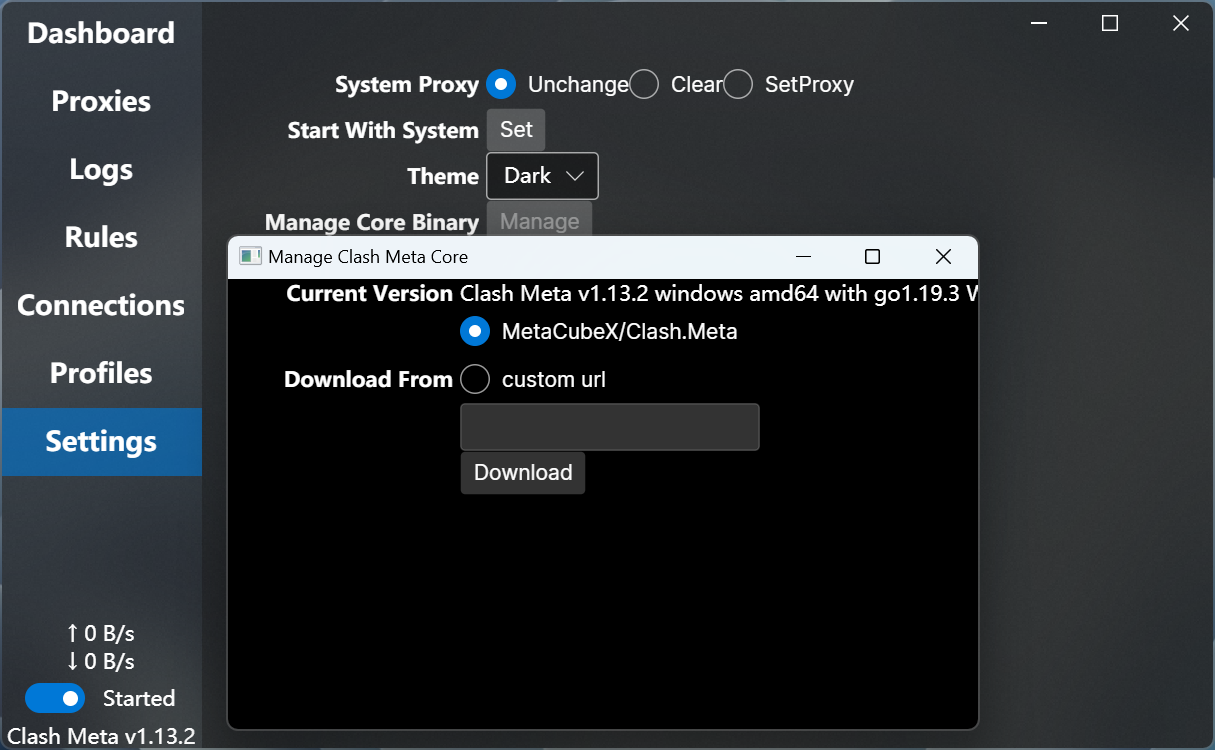
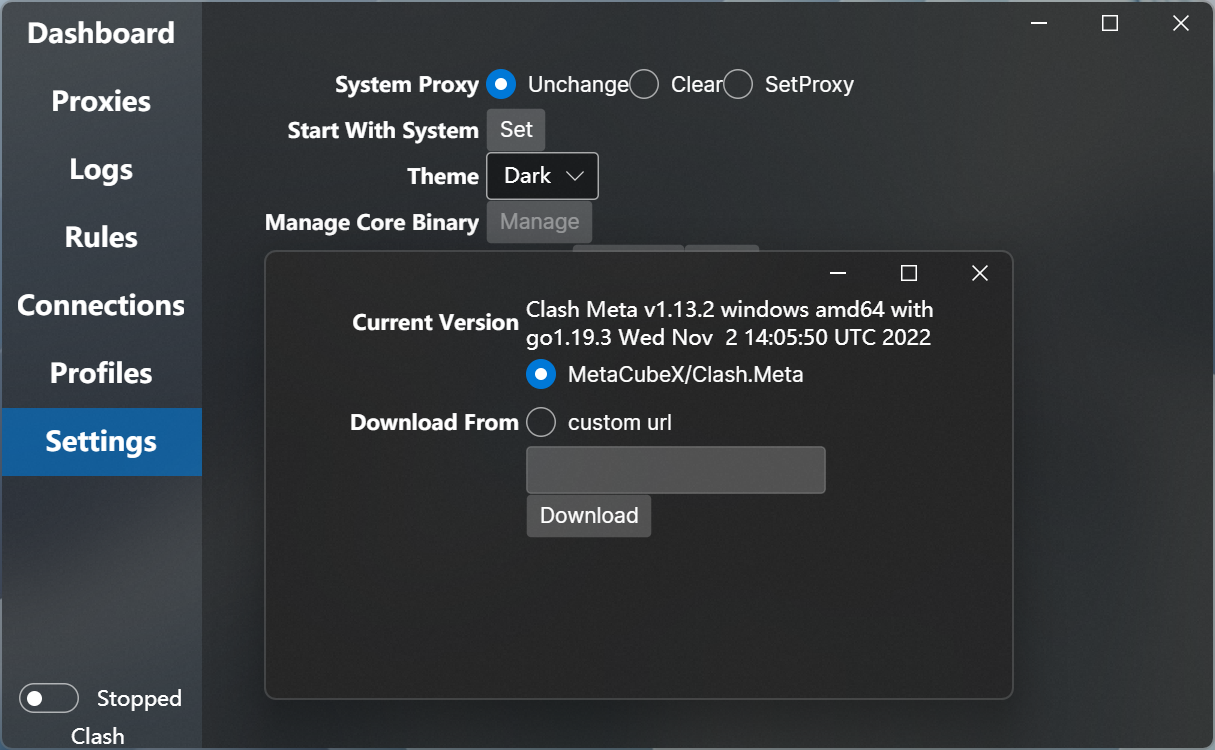
feat: Make ProfileEditWindow and ClashCoreManageWindow Acrylic

diff --git a/Clasharp/ViewModels/ProfileEditViewModel.cs b/Clasharp/ViewModels/ProfileEditViewModel.cs
@@ -5,11 +5,14 @@ using System.Linq;
 using System.Reactive;
 using System.Reactive.Linq;
 using System.Threading.Tasks;
+using Avalonia.Media;
+using Avalonia.Themes.Fluent;
 using Clasharp.Interfaces;
 using Clasharp.Models.Profiles;
 using Clasharp.Services;
 using Clasharp.Utils;
 using Clasharp.Common;
+using Clasharp.Models.Settings;
 using ReactiveUI;
 using ReactiveUI.Fody.Helpers;
 
@@ -61,12 +64,15 @@ public class ProfileEditViewModel : ViewModelBase, IProfileEditViewModel
     // ReSharper disable once UnassignedGetOnlyAutoProperty
     public bool IsLocalProfile { get; }
 
+    [ObservableAsProperty]
+    public Color TintColor { get; }
+
     public ReactiveCommand<Unit, Profile?> Save { get; }
     private Profile? _profileBase;
 
     private IProfilesService _profilesService;
 
-    public ProfileEditViewModel(Profile? profile, IProfilesService profilesService)
+    public ProfileEditViewModel(Profile? profile, IProfilesService profilesService, AppSettings appSettings)
     {
         _profileBase = profile;
         _profilesService = profilesService;
@@ -96,6 +102,10 @@ public class ProfileEditViewModel : ViewModelBase, IProfileEditViewModel
                 FromFile = filename;
             }
         });
+        appSettings.WhenAnyValue(d => d.ThemeMode)
+            .Select(d => d == FluentThemeMode.Dark ? Colors.Black : Colors.White)
+            .ToPropertyEx(this, d => d.TintColor);
+
     }
 
     private async Task<Profile?> SaveProfile()

diff --git a/Clasharp/ViewModels/ClashCoreManageViewModel.cs b/Clasharp/ViewModels/ClashCoreManageViewModel.cs
@@ -3,9 +3,12 @@ using System.IO;
 using System.Reactive;
 using System.Reactive.Linq;
 using System.Threading.Tasks;
+using Avalonia.Media;
+using Avalonia.Themes.Fluent;
 using Clasharp.Common;
 using Clasharp.Interfaces;
 using Clasharp.Models.ServiceMode;
+using Clasharp.Models.Settings;
 using Clasharp.Utils.PlatformOperations;
 using ReactiveUI;
 using ReactiveUI.Fody.Helpers;
@@ -20,7 +23,7 @@ public class ClashCoreManageViewModel : ViewModelBase, IClashCoreManageViewModel
     private readonly StopService _stopService = new();
     private readonly GetClashExePath _getClashExePath = new();
 
-    public ClashCoreManageViewModel()
+    public ClashCoreManageViewModel(AppSettings appSettings)
     {
         CustomUrl = "";
         Observable.Timer(TimeSpan.Zero)
@@ -49,6 +52,10 @@ public class ClashCoreManageViewModel : ViewModelBase, IClashCoreManageViewModel
             }
         });
         Download.IsExecuting.ToPropertyEx(this, d => d.IsDownloading);
+
+        appSettings.WhenAnyValue(d => d.ThemeMode)
+            .Select(d => d == FluentThemeMode.Dark ? Colors.Black : Colors.White)
+            .ToPropertyEx(this, d => d.TintColor);
     }
 
     private async Task<string> GetClashVersion()
@@ -71,4 +78,7 @@ public class ClashCoreManageViewModel : ViewModelBase, IClashCoreManageViewModel
 
     [ObservableAsProperty]
     public bool IsDownloading { get; }
+
+    [ObservableAsProperty]
+    public Color TintColor { get; }
 }

diff --git a/Clasharp/Views/ProfilesView.axaml.cs b/Clasharp/Views/ProfilesView.axaml.cs
@@ -2,8 +2,8 @@
 using Avalonia;
 using Avalonia.Controls.ApplicationLifetimes;
 using Avalonia.Markup.Xaml;
-using Avalonia.ReactiveUI;
 using Clasharp.Models.Profiles;
+using Clasharp.Models.Settings;
 using Clasharp.Services;
 using Clasharp.ViewModels;
 using ReactiveUI;
@@ -22,7 +22,11 @@ public partial class ProfilesView : UserControlBase<ProfilesViewModel>
     private async Task Handler(InteractionContext<Profile?, Profile?> obj)
     {
         var profileEditWindow = new ProfileEditWindow
-            {DataContext = new ProfileEditViewModel(obj.Input, Locator.Current.GetService<IProfilesService>())};
+        {
+            DataContext = new ProfileEditViewModel(obj.Input, 
+                Locator.Current.GetService<IProfilesService>(),
+                Locator.Current.GetService<AppSettings>())
+        };
         if (Application.Current?.ApplicationLifetime is IClassicDesktopStyleApplicationLifetime desktop)
         {
             var res = await profileEditWindow.ShowDialog<Profile>(desktop.MainWindow);

diff --git a/Clasharp/Views/SettingsView.axaml.cs b/Clasharp/Views/SettingsView.axaml.cs
@@ -6,8 +6,10 @@ using Avalonia.Controls;
 using Avalonia.Controls.ApplicationLifetimes;
 using Avalonia.Markup.Xaml;
 using Avalonia.Themes.Fluent;
+using Clasharp.Models.Settings;
 using Clasharp.ViewModels;
 using ReactiveUI;
+using Splat;
 
 namespace Clasharp.Views;
 
@@ -26,7 +28,7 @@ public partial class SettingsView : UserControlBase<SettingsViewModel>
 
     private async Task Handler(InteractionContext<Unit, Unit> arg)
     {
-        var profileEditWindow = new ClashCoreManageWindow {DataContext = new ClashCoreManageViewModel()};
+        var profileEditWindow = new ClashCoreManageWindow {DataContext = new ClashCoreManageViewModel(Locator.Current.GetService<AppSettings>())};
         if (Application.Current?.ApplicationLifetime is IClassicDesktopStyleApplicationLifetime desktop)
         {
             var res = await profileEditWindow.ShowDialog<Unit>(desktop.MainWindow);

diff --git a/Clasharp/Views/ProfileEditWindow.axaml.cs b/Clasharp/Views/ProfileEditWindow.axaml.cs
@@ -1,6 +1,7 @@
 using System;
 using System.Linq;
 using System.Reactive;
+using System.Runtime.InteropServices;
 using System.Threading.Tasks;
 using Avalonia;
 using Avalonia.Controls;
@@ -25,6 +26,10 @@ public partial class ProfileEditWindow : WindowBase<ProfileEditViewModel>
             d(ViewModel.ShowOpenFileDialog.RegisterHandler(ShowFileDialog));
             Title = ViewModel.IsCreate ? "Create Profile" : "Edit Profle";
         });
+        if (RuntimeInformation.IsOSPlatform(OSPlatform.Linux))
+        {
+            this.FindControl<ExperimentalAcrylicBorder>("AcrylicBorder").IsVisible = false;
+        }
     }
 
     private async Task ShowFileDialog(InteractionContext<Unit, string?> interaction)

diff --git a/Clasharp/Views/ClashCoreManageWindow.axaml.cs b/Clasharp/Views/ClashCoreManageWindow.axaml.cs
@@ -1,6 +1,7 @@
-using Avalonia;
+using System.Runtime.InteropServices;
+using Avalonia;
+using Avalonia.Controls;
 using Avalonia.Markup.Xaml;
-using Avalonia.ReactiveUI;
 using Clasharp.ViewModels;
 
 namespace Clasharp.Views;
@@ -13,6 +14,10 @@ public partial class ClashCoreManageWindow : WindowBase<ClashCoreManageViewModel
 #if DEBUG
         this.AttachDevTools();
 #endif
+        if (RuntimeInformation.IsOSPlatform(OSPlatform.Linux))
+        {
+            this.FindControl<ExperimentalAcrylicBorder>("AcrylicBorder").IsVisible = false;
+        }
     }
 
     private void InitializeComponent()

diff --git a/Clasharp/Interfaces/IClashCoreManageViewModel.cs b/Clasharp/Interfaces/IClashCoreManageViewModel.cs
@@ -1,17 +1,20 @@
 using System.Reactive;
+using Avalonia.Media;
 using ReactiveUI;
 
 namespace Clasharp.Interfaces;
 
-public interface IClashCoreManageViewModel: IViewModelBase
+public interface IClashCoreManageViewModel : IViewModelBase
 {
     string CurrentVersion { get; }
-    
+
     bool UseCustomUrl { get; set; }
-    
+
     string CustomUrl { get; set; }
-    
-    ReactiveCommand<Unit,Unit> Download { get; }
-    
+
+    ReactiveCommand<Unit, Unit> Download { get; }
+
     bool IsDownloading { get; }
+
+    Color TintColor { get; }
 }

diff --git a/Clasharp/DesignTime/DesignProfileEditViewModel.cs b/Clasharp/DesignTime/DesignProfileEditViewModel.cs
@@ -1,6 +1,6 @@
-using System;
-using System.Collections.Generic;
+using System.Collections.Generic;
 using System.Reactive;
+using Avalonia.Media;
 using Clasharp.Interfaces;
 using Clasharp.Models.Profiles;
 using Clasharp.ViewModels;
@@ -20,4 +20,5 @@ public class DesignProfileEditViewModel:ViewModelBase, IProfileEditViewModel
     public List<ProfileType> ProfileTypes { get; }
     public bool IsRemoteProfile { get; }
     public bool IsLocalProfile { get; }
+    public Color TintColor { get; }
 }

diff --git a/Clasharp/DesignTime/DesignClashCoreManageViewModel.cs b/Clasharp/DesignTime/DesignClashCoreManageViewModel.cs
@@ -1,4 +1,5 @@
 using System.Reactive;
+using Avalonia.Media;
 using Clasharp.Interfaces;
 using Clasharp.ViewModels;
 using ReactiveUI;
@@ -12,4 +13,5 @@ public class DesignClashCoreManageViewModel: ViewModelBase, IClashCoreManageView
     public string CustomUrl { get; set; }
     public ReactiveCommand<Unit, Unit> Download { get; }
     public bool IsDownloading { get; }
+    public Color TintColor { get; }
 }

diff --git a/Clasharp/Interfaces/IProfileEditViewModel.cs b/Clasharp/Interfaces/IProfileEditViewModel.cs
@@ -1,6 +1,6 @@
-using System;
-using System.Collections.Generic;
+using System.Collections.Generic;
 using System.Reactive;
+using Avalonia.Media;
 using Clasharp.Models.Profiles;
 using ReactiveUI;
 
@@ -22,4 +22,5 @@ public interface IProfileEditViewModel : IViewModelBase
     bool IsRemoteProfile { get; }
     bool IsLocalProfile { get; }
 
+    Color TintColor { get; }
 }
